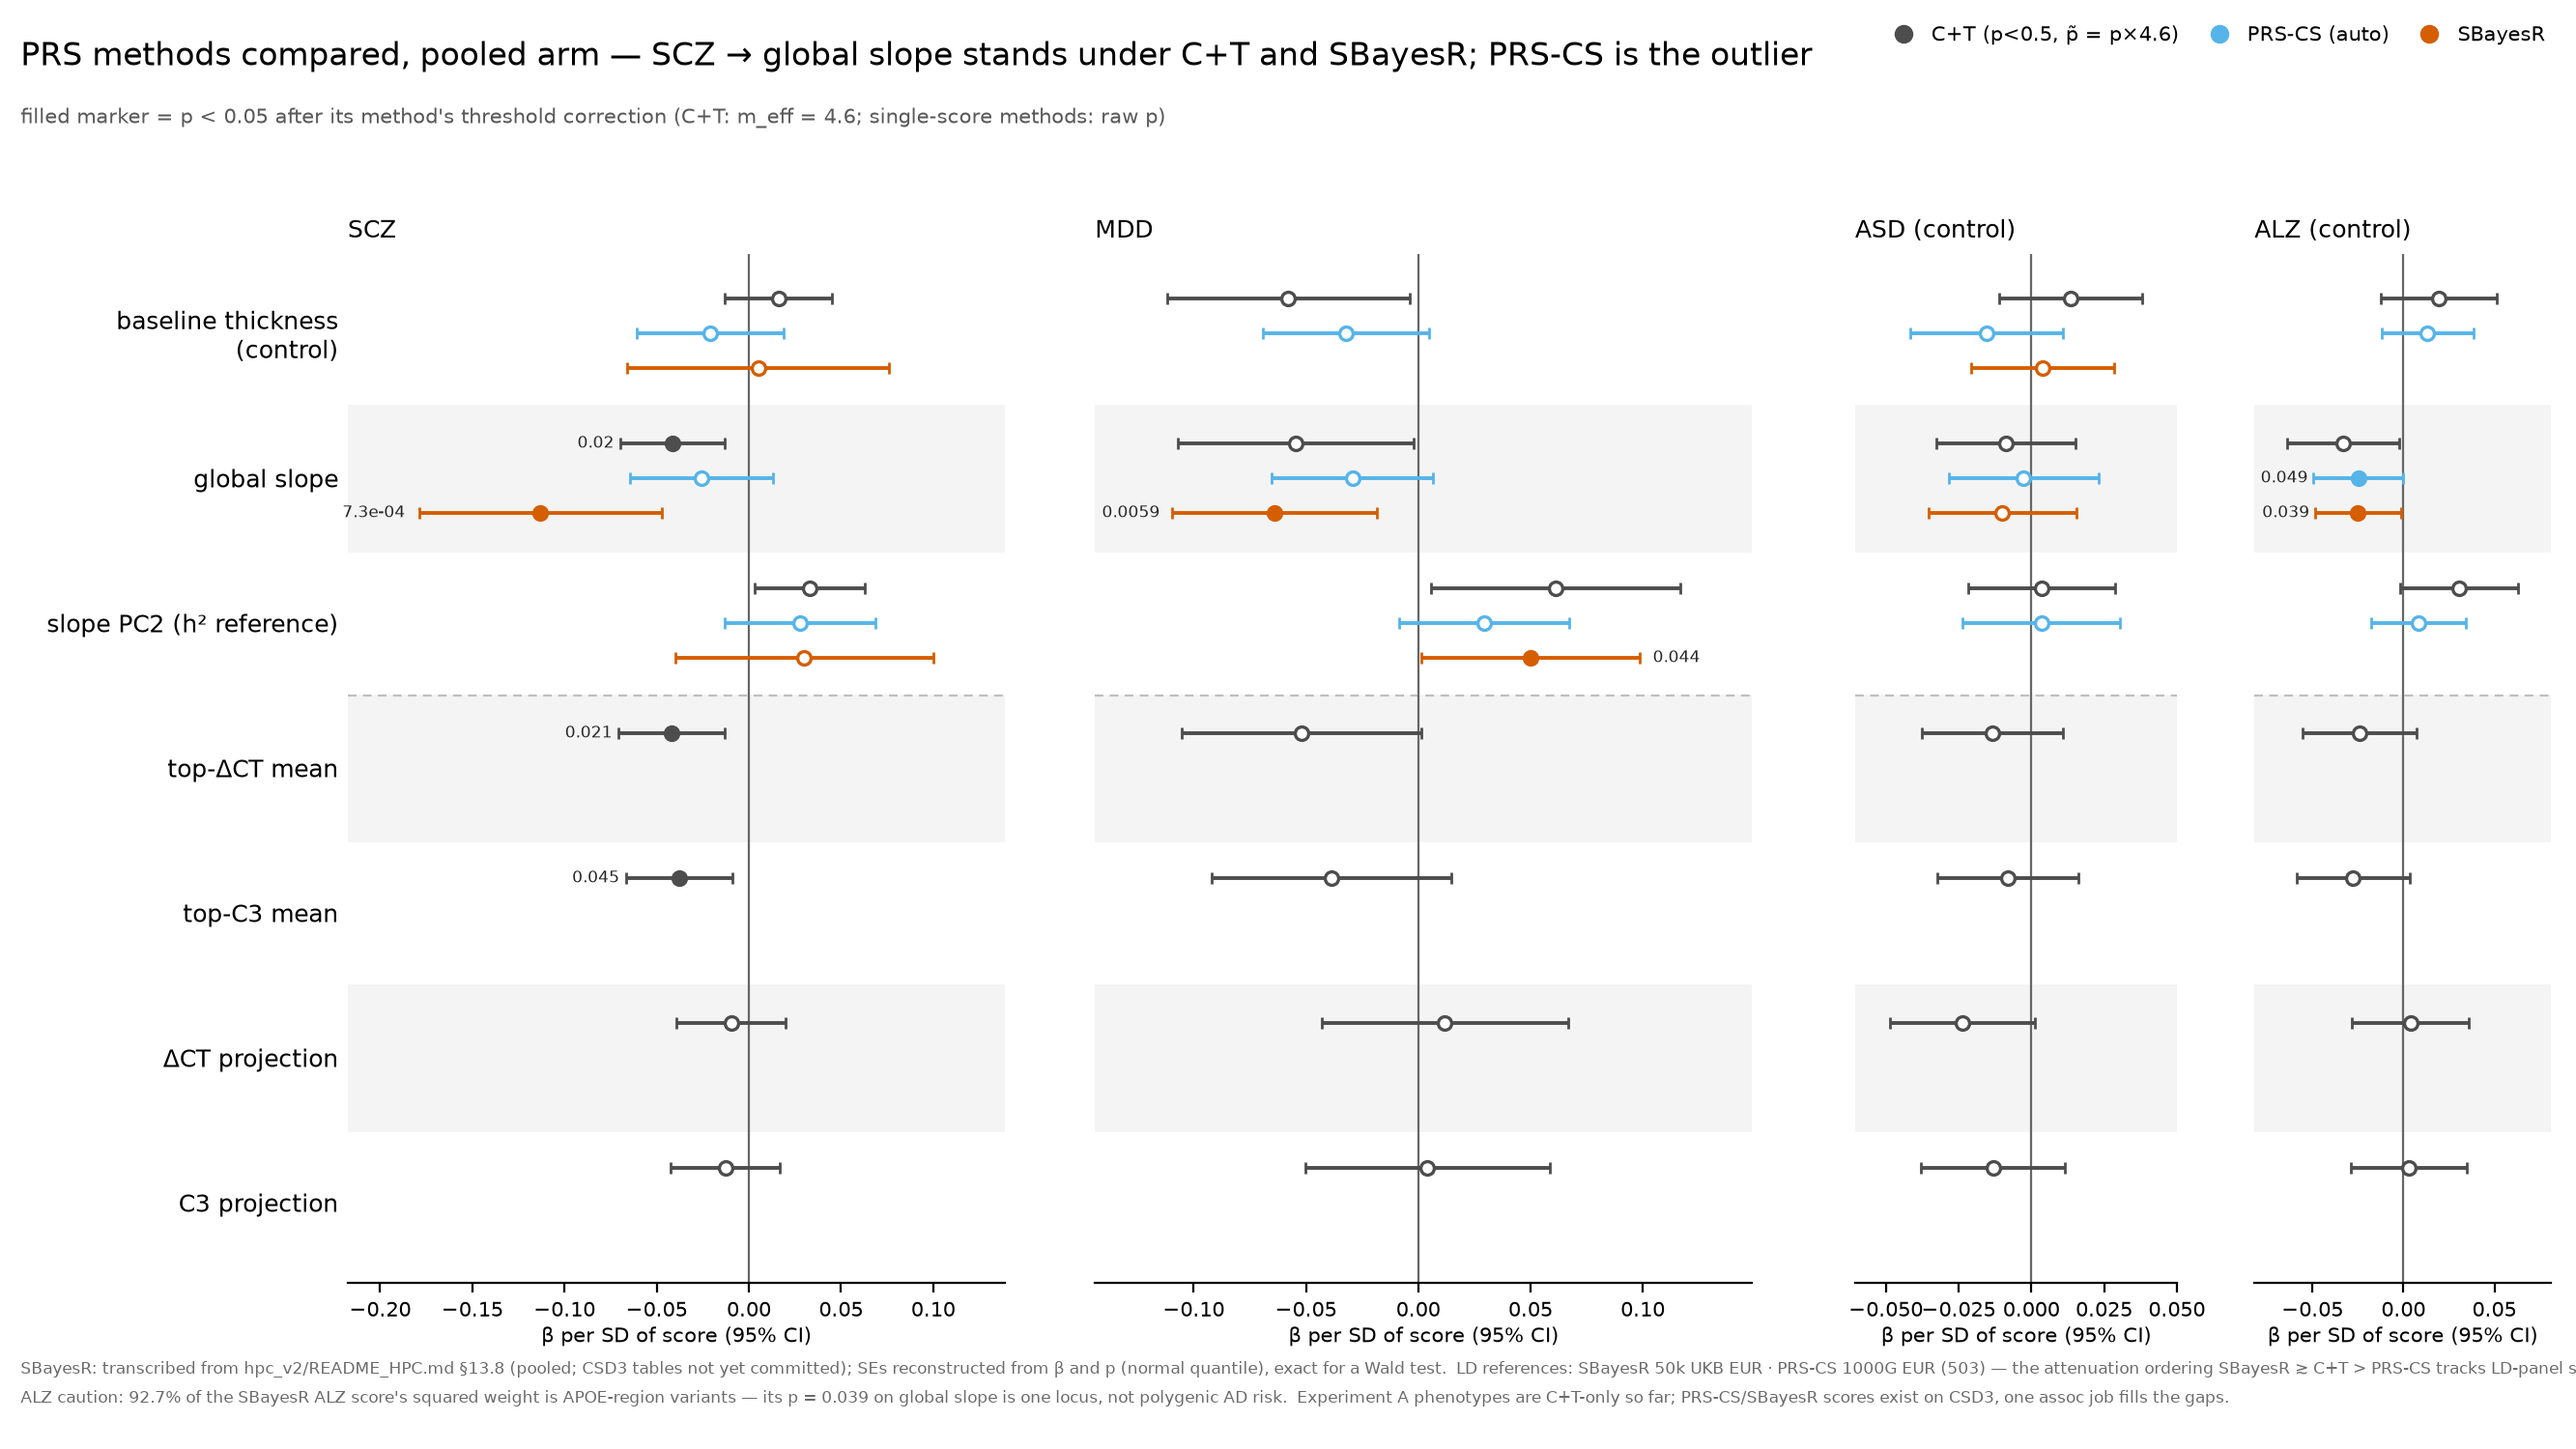
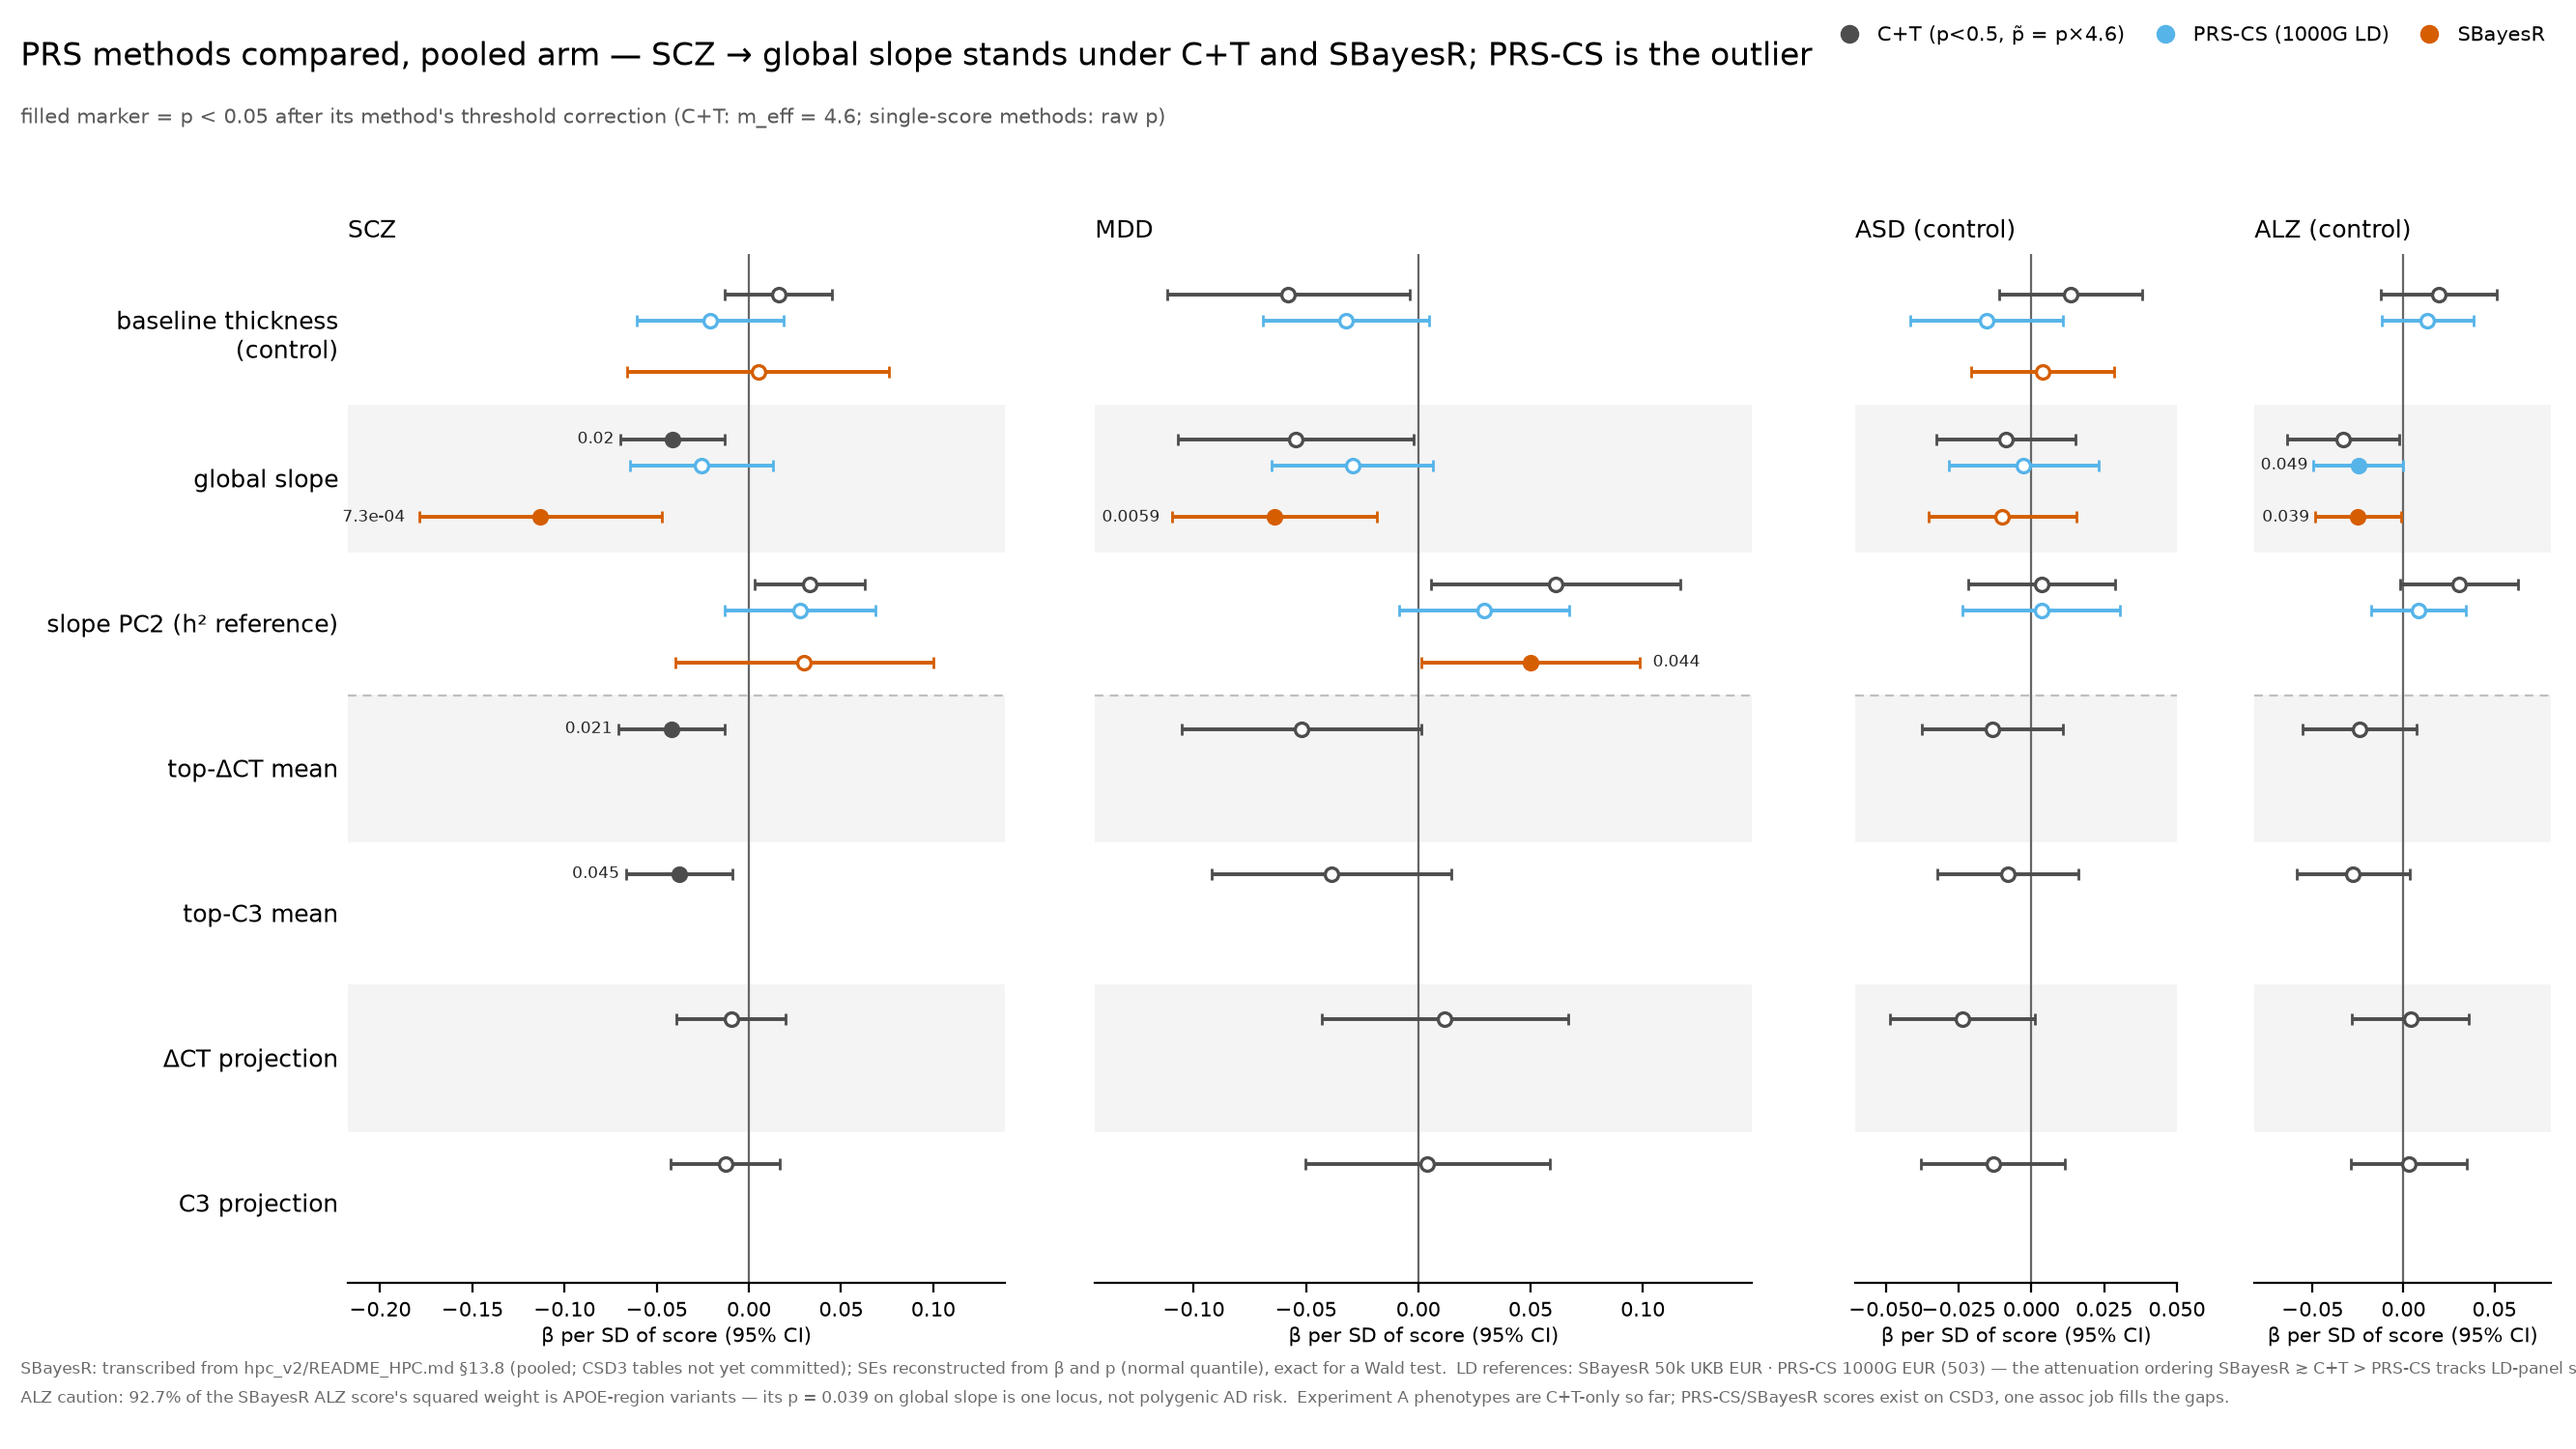
hpc_v3: methods slide pre-wired for the PRS-CS UKB-LD re-run
Commit 8fe2312 added the prscs_ukbb sbatch pair but the association tables
are still on CSD3. The slide now auto-detects
hpc_v2/work/results_v2/prscs_ukbb/prs_association_<DIS>_prscs.tsv (same
schema as prscs/) and draws a fourth series 'PRS-CS (UKB LD)' the moment
those files are committed -- no code change needed then. Until they exist the
slide renders identically to before (legend drops absent methods).

For the cluster agent -- files that complete this slide:
  results_v2/prscs_ukbb/prs_association_{SCZ,MDD,ASD,ALZ}_prscs.tsv (both strata)
  results_v2/sbayesr/prs_association_{DIS}_sbayesr.tsv (replaces the README
  13.8 transcription in hpc_v3/prs_tables/prs_sbayesr_readme.tsv, giving real
  SEs and the EUR arm)
  optionally the matching prs_withinfamily files and the PRS-CSx EUR table.

diff --git a/hpc_v3/slide_prs_methods.py b/hpc_v3/slide_prs_methods.py
@@ -50,11 +50,15 @@ YLAB = ["baseline thickness\n(control)", "global slope",
         "ΔCT projection", "C3 projection"]
 N_SETTLED_ROWS = 3          # rule between settled phenotypes and Experiment A
 
-METHODS = ["ct", "prscs", "sbayesr"]
-METHOD_LABEL = {"ct": "C+T (p<0.5, p̃ = p×4.6)", "prscs": "PRS-CS (auto)",
-                "sbayesr": "SBayesR"}
-METHOD_COLOR = {"ct": "0.30", "prscs": "#56B4E9", "sbayesr": "#D55E00"}
-DODGE = {"ct": 0.24, "prscs": 0.0, "sbayesr": -0.24}
+METHODS = ["ct", "prscs", "prscs_ukbb", "sbayesr"]
+METHOD_LABEL = {"ct": "C+T (p<0.5, p̃ = p×4.6)", "prscs": "PRS-CS (1000G LD)",
+                "prscs_ukbb": "PRS-CS (UKB LD)", "sbayesr": "SBayesR"}
+METHOD_COLOR = {"ct": "0.30", "prscs": "#56B4E9", "prscs_ukbb": "#0072B2",
+                "sbayesr": "#D55E00"}
+DODGE = {"ct": 0.27, "prscs": 0.09, "prscs_ukbb": -0.09, "sbayesr": -0.27}
+#: the UKB-LD re-run (hpc_v2 commit 8fe2312's prscs_ukbb.sbatch) -- drawn
+#: automatically once its association tables are pulled from CSD3
+UKBB_DIR = "hpc_v2/work/results_v2/prscs_ukbb"
 
 
 def load() -> pd.DataFrame:
@@ -66,14 +70,18 @@ def load() -> pd.DataFrame:
         rows.append(dict(method="ct", disorder=r.disorder,
                          phenotype=r.phenotype, beta=r.beta, se=r.se,
                          p=r.p, p_corr=min(1.0, r.p * M_EFF), n=r.n))
-    for dis in ("SCZ", "MDD", "ASD", "ALZ"):
-        cs = pd.read_csv(REPO / "hpc_v2/work/results_v2/prscs/"
-                         f"prs_association_{dis}_prscs.tsv", sep="\t")
-        cs = cs[(cs.stratum == "full") & (cs.disorder == dis)]
-        for _, r in cs.iterrows():
-            rows.append(dict(method="prscs", disorder=dis,
-                             phenotype=r.phenotype, beta=r.beta, se=r.se,
-                             p=r.p, p_corr=r.p, n=r.n))
+    for method, d in (("prscs", REPO / "hpc_v2/work/results_v2/prscs"),
+                      ("prscs_ukbb", REPO / UKBB_DIR)):
+        for dis in ("SCZ", "MDD", "ASD", "ALZ"):
+            f = d / f"prs_association_{dis}_prscs.tsv"
+            if not f.exists():      # UKB-LD tables not pulled from CSD3 yet
+                continue
+            cs = pd.read_csv(f, sep="\t")
+            cs = cs[(cs.stratum == "full") & (cs.disorder == dis)]
+            for _, r in cs.iterrows():
+                rows.append(dict(method=method, disorder=dis,
+                                 phenotype=r.phenotype, beta=r.beta, se=r.se,
+                                 p=r.p, p_corr=r.p, n=r.n))
     sb = pd.read_csv(REPO / "hpc_v3/prs_tables/prs_sbayesr_readme.tsv",
                      sep="\t")
     for _, r in sb.iterrows():
@@ -153,9 +161,10 @@ def draw() -> Path:
     panel(fig, [0.875, 0.115, 0.115, 0.71], df[df.disorder == "ALZ"],
           PHENOS, YLAB, "ALZ (control)", False)
 
+    present = [m for m in METHODS if (df.method == m).any()]
     handles = [mpl.lines.Line2D([], [], color=METHOD_COLOR[m], marker="o",
                                 ls="", mfc=METHOD_COLOR[m],
-                                label=METHOD_LABEL[m]) for m in METHODS]
+                                label=METHOD_LABEL[m]) for m in present]
     fig.legend(handles=handles, loc="upper right",
                bbox_to_anchor=(0.995, 0.995), ncol=3, frameon=False,
                fontsize=SMALL, handletextpad=0.4, columnspacing=1.0)
